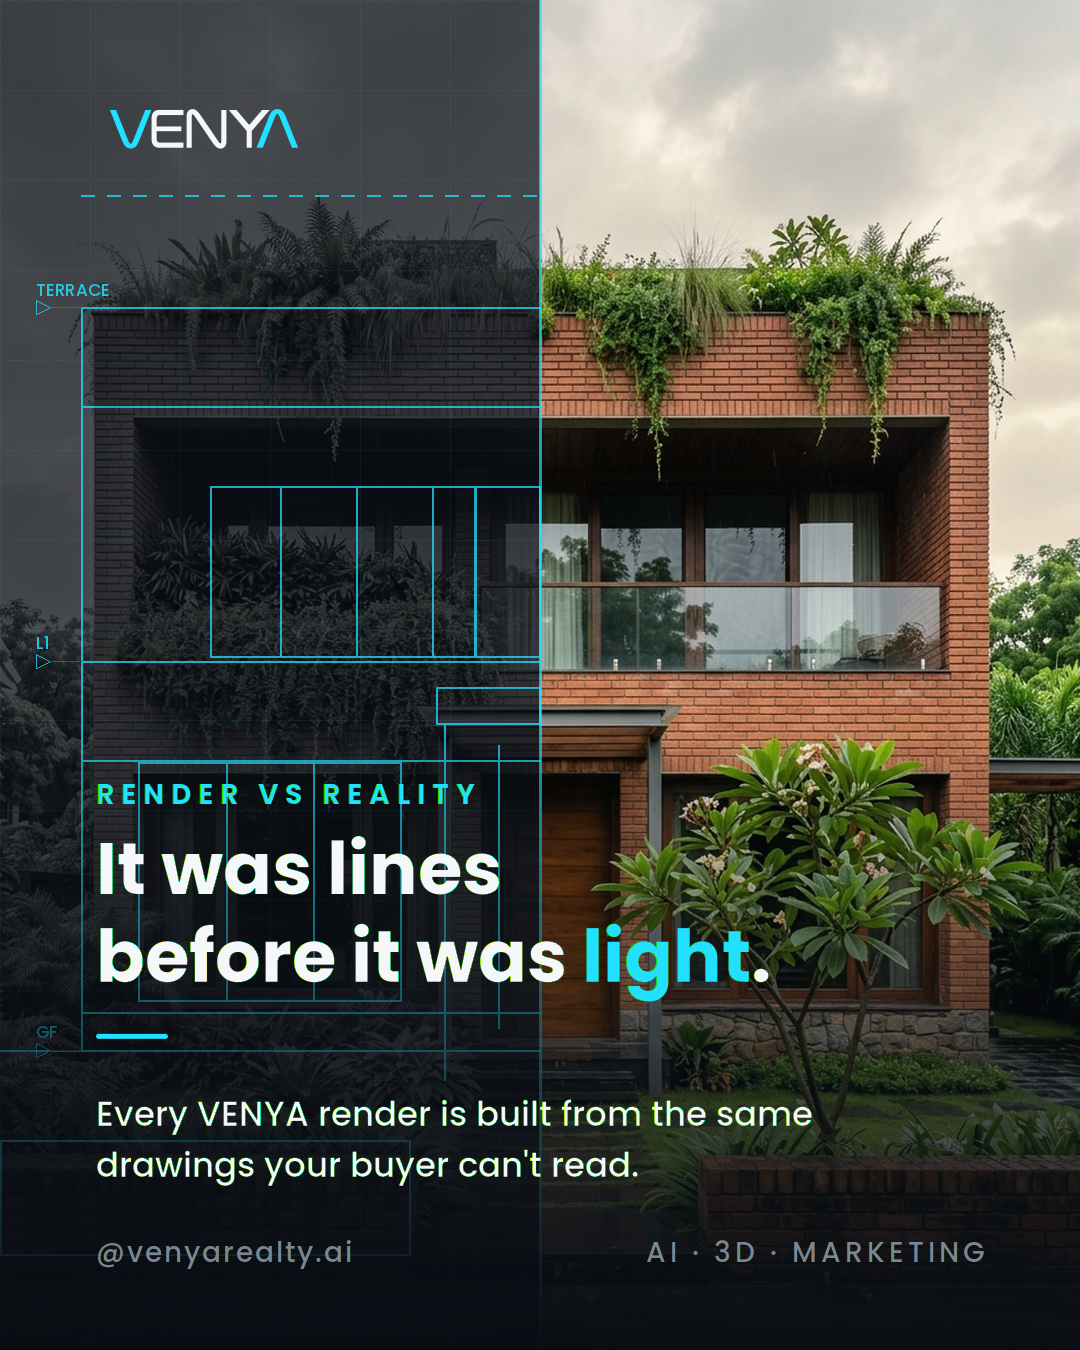
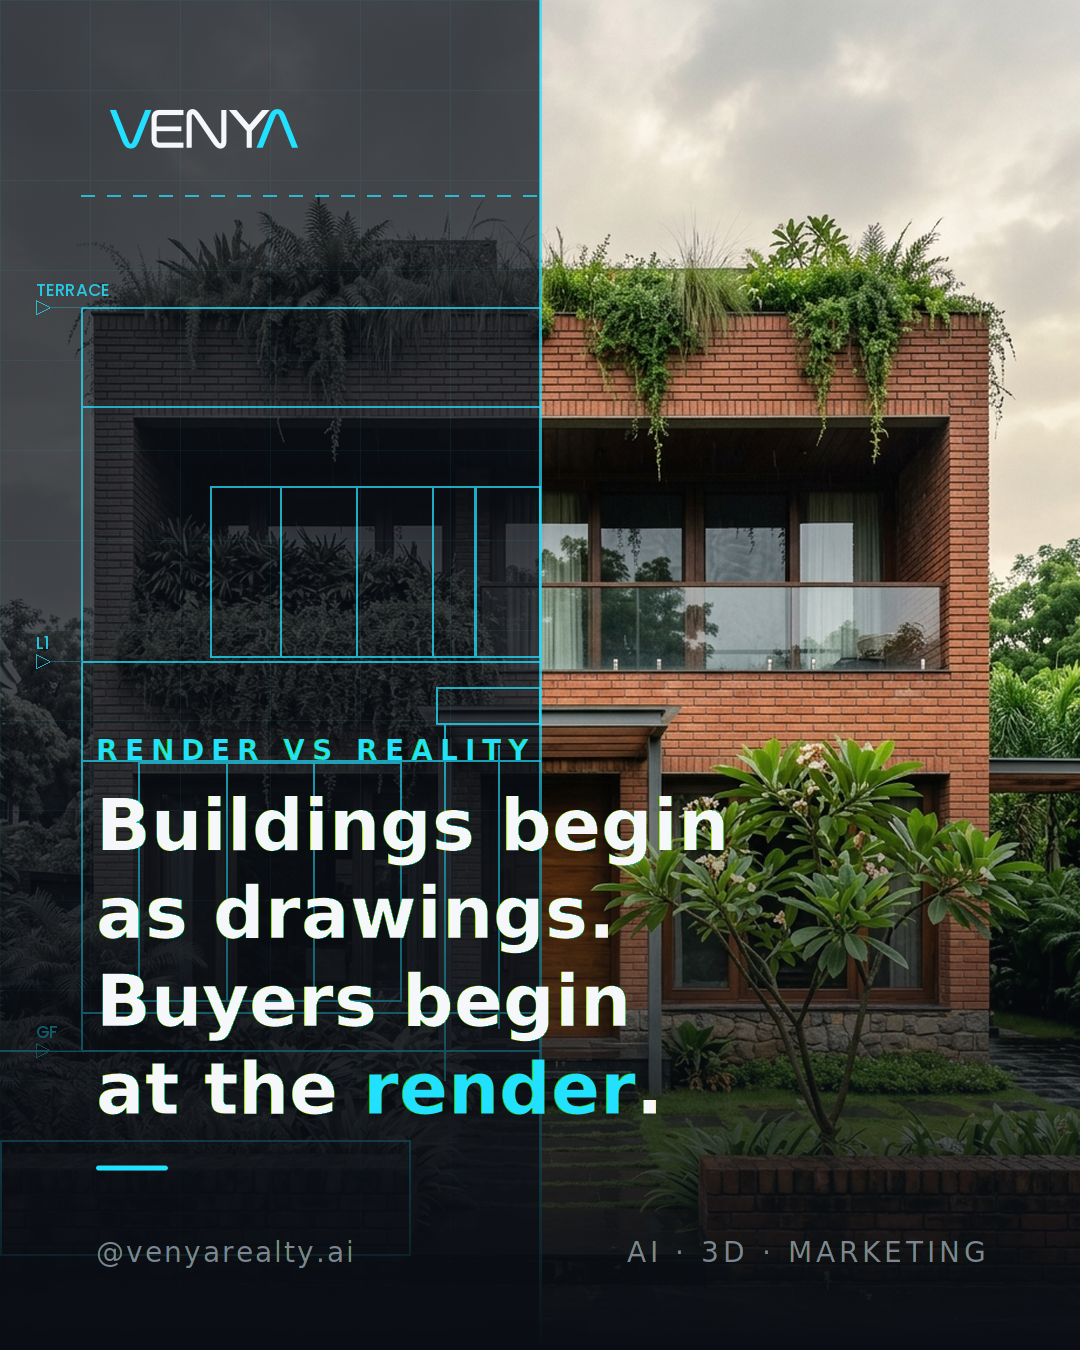
render_vs_reality direction B — rebuild proof on CW's cleared copy (GD hourly, 20 Aug)
The first proof carried GD placeholder copy that claimed this specific image
began as drawings; it did not (hero generated from photographic precedent refs).
CW supplied the cleared line the same hour. Rebuilt on it:

  Buildings begin as drawings. Buyers begin at the render.

The flagged line was the sub, but the placeholder headline ("It was lines before
it was light") made the same provenance claim more directly — both removed. The
card now carries one line and no sub, since a second GD-authored line is what
broke the first version.

Same already-burned hero_brickgarden_frontal.png: zero AVAILABLE bank stock
consumed, neither Sat 22 fallback hero touched. Still a concept — no Notion row.

Claude-Session: https://claude.ai/code/session_01DN6FgxGpj9As2ZQfBFAX3W

diff --git a/creatives/concepts/2026-08-20-render-vs-reality/README.md b/creatives/concepts/2026-08-20-render-vs-reality/README.md
@@ -13,5 +13,10 @@ AKSHAY #5 against something he can see rather than a written description.
   the proof consumes **zero AVAILABLE bank stock** and touches neither of the two
   heroes SMM reserved for the Sat 22 Aug no-pick fallback.
 - **Builder:** `venya-ops/instagram/templates/build_render_vs_reality_proof.py`
-- **Copy is GD placeholder** to prove the layout. Final copy is CW's — and see the
-  provenance caveat in the design-directions doc before writing it.
+- **Copy is CW's, and cleared** (revised GD hourly, 20 Aug ~17:0x UTC). The card
+  now reads *"Buildings begin as drawings. Buyers begin at the render."* from
+  `venya-ops/handoffs/CW/RENDER_VS_REALITY_B_copy.md`. The first version's GD
+  placeholder headline *and* sub both claimed **this** image began as drawings;
+  it did not — the hero was generated from photographic precedent references, so
+  the copy may describe the category only. There is no sub line: one cleared line
+  carries the card.
